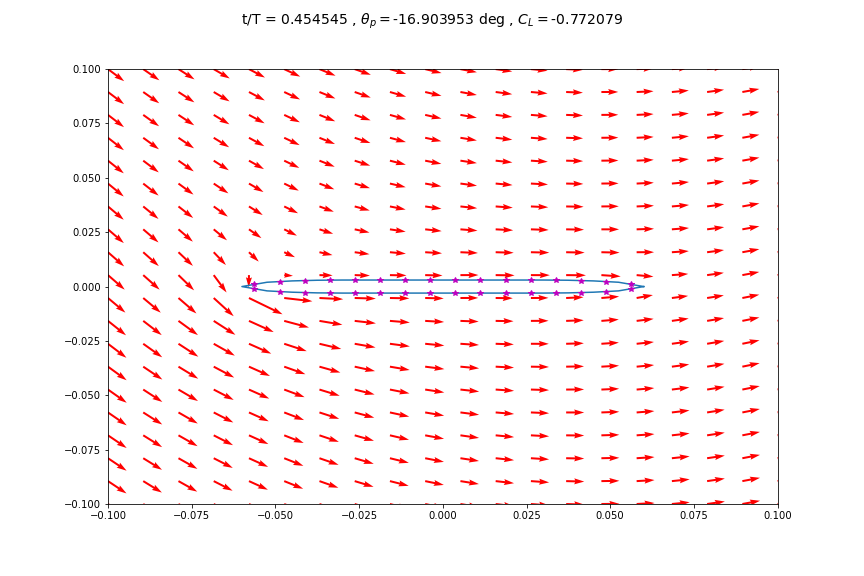
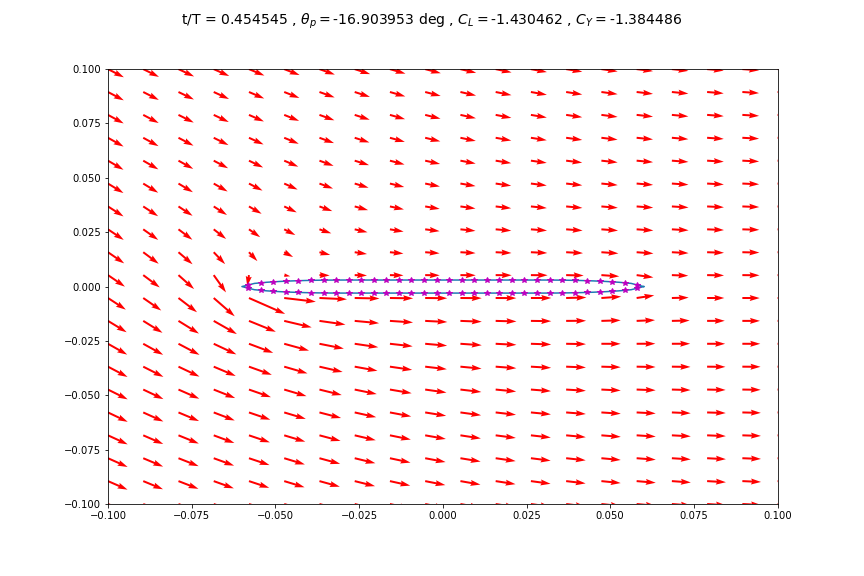
last minute
last minute changes

diff --git a/Unsteady Attached Flow plate.py b/Unsteady Attached Flow plate.py
@@ -11,13 +11,13 @@ import copy
 
 # some initial data
 pathName='E://Research//Scripts//Potential Flow//Panel Method//Git_Panel_Methods//frames'
-Uinf=3
+Uinf=8.8
 rho=1.204
 chord=.12
 thickness=.006
 minRad=thickness/2
 majRad=chord/4
-numPanels=32
+numPanels=64
 xp=np.zeros((numPanels+1,1))
 yp=np.zeros((numPanels+1,1))
 
@@ -57,7 +57,7 @@ tEnd=.5
 tInterval=np.linspace(0,tEnd,numFrames)
 f=2
 omega=2*np.pi*f
-h0=.05
+h0=.1
 theta0=60*np.pi/180
 h_t=h0*np.cos(omega*tInterval)
 h_t_dot=-h0*omega*np.sin(omega*tInterval)
@@ -152,7 +152,9 @@ yVelStream=np.zeros((numPoints,numPoints))
 # data storage
 tangVelSto=np.zeros((numPanels,numFrames))
 ClKuttaSto=np.zeros((numFrames,1))
+CYKuttaSto=np.zeros((numFrames,1))
 ClBernSto=np.zeros((numFrames,1))
+CYBernSto=np.zeros((numFrames,1))
 xSto=np.zeros((numPanels+1,numFrames))
 
 # panel method for each snap shot in time interval
@@ -177,16 +179,17 @@ for t in range(numFrames):
     # Lift from kutta
     gamma=x[-1]*perimeter
     Cl_kutta=2*gamma/(Uinf*chord)
-    
-    # Lift from conformal mapping
-#    Cl_kutta=2*lift_kutta/(rho*Uinf**2*chord)
-#    Cl_J=2*np.pi*np.sin(AoA)
+    CY_kutta=Cl_kutta*np.cos(np.average(AoA))
     
     # lift from bernoulli
     dP=np.reshape(1/2*rho*(Uinf**2-tangVelFoil**2),(numPanels,1))
     yForceDist=-dP*si*np.cos(theta-AoA)
     lift_bern=np.sum(yForceDist)
     Cl_bern=2*lift_bern/(rho*Uinf**2*chord)
+    CY_bern=Cl_bern*np.cos(np.average(AoA))
+    
+    # moment about pitching axis
+    
     
     # adjust freestream velocity in domain to account for heaving and pitching
     xModU=(Uinf+theta_t_dot[t]*X[0,:]*np.sin(theta_t[t]))*np.cos(theta_t[t])+(-h_t_dot[t]+theta_t_dot[t]*X[0,:]*np.cos(theta_t[t]))*-np.sin(theta_t[t])
@@ -199,7 +202,8 @@ for t in range(numFrames):
             yVelStream[i,j]=np.dot(AFieldy[i*numPoints+j,:],x)+yModU[j]
     
     # plot velocity vectors
-    title='t/T = ' + '{:3f}'.format(tInterval[t]/tEnd)+ r' , $\theta_p = $' + '{:3f}'.format(theta_t[t]/np.pi*180) +' deg , ' + r'$C_L = $' + '{:3f}'.format(Cl_kutta[0])
+    title='t/T = ' + '{:3f}'.format(tInterval[t]/tEnd)+ r' , $\theta_p = $' + '{:3f}'.format(theta_t[t]/np.pi*180) +' deg , ' + r'$C_L = $' + '{:3f}'.format(Cl_kutta[0]) +\
+                      r' , $C_Y = $' + '{:3f}'.format(CY_kutta[0])
     fig1=plt.figure(figsize=(12,8))
     fig1.suptitle(title,fontsize=14)
     fig1.add_subplot(111)
@@ -209,11 +213,14 @@ for t in range(numFrames):
     plt.quiver(X,Y,xVelStream,yVelStream,color='r')
     plt.plot(xc,yc,'*',color='m')
     plt.savefig(pathName + '//frame' + str(t))
+    plt.close()
     
     # save data
     tangVelSto[:,t]=tangVelFoil[:,0]
     ClKuttaSto[t]=Cl_kutta
+    CYKuttaSto[t]=Cl_kutta*np.cos(np.average(AoA))
     ClBernSto[t]=Cl_bern
+    CYBernSto[t]=Cl_bern*np.cos(np.average(AoA))
     xSto[:,t]=x[:,0]
 
 plt.plot(tInterval,ClKuttaSto)

diff --git a/steady flat plate.py b/steady flat plate.py
@@ -5,19 +5,19 @@ steady panel method from HSPM
 """
 
 import numpy as np
-import scipy as sc
 import matplotlib.pyplot as plt
 import copy
 
 # setup panel coordinates and control point coordinates
-AoA=10*np.pi/180
-Uinf=9
+AoA=5*np.pi/180
+Uinf=8.8
 rho=1.204
 chord=.12
-thickness=.01
+span=chord*2
+thickness=.001
 minRad=thickness/2
 majRad=chord/4
-numPanels=128
+numPanels=64
 xp=np.zeros((numPanels+1,1))
 yp=np.zeros((numPanels+1,1))
 
@@ -175,7 +175,7 @@ plt.xlim(xLeft,xRight)
 plt.plot(xp,yp)
 plt.quiver(X,Y,xVelStream,yVelStream,color='r')
 plt.plot(xc,yc,'*',color='m')
-#plt.savefig('steady_plate_15_AoA.png')
+plt.savefig('steady_plate_5_AoA_.png')
 
 print('C_L from kutta:',Cl_kutta)
 print('C_L from bernoulli:',Cl_bern)
